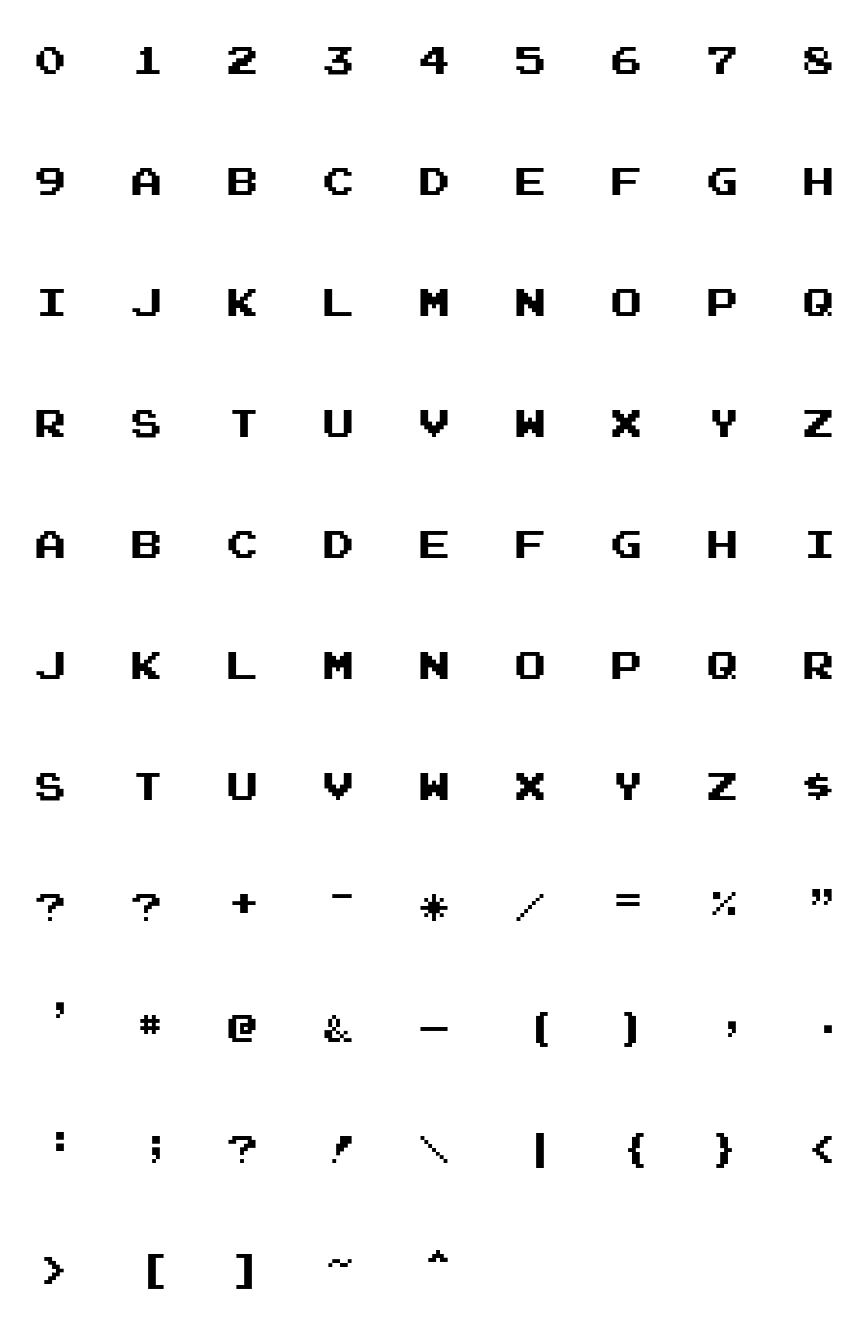
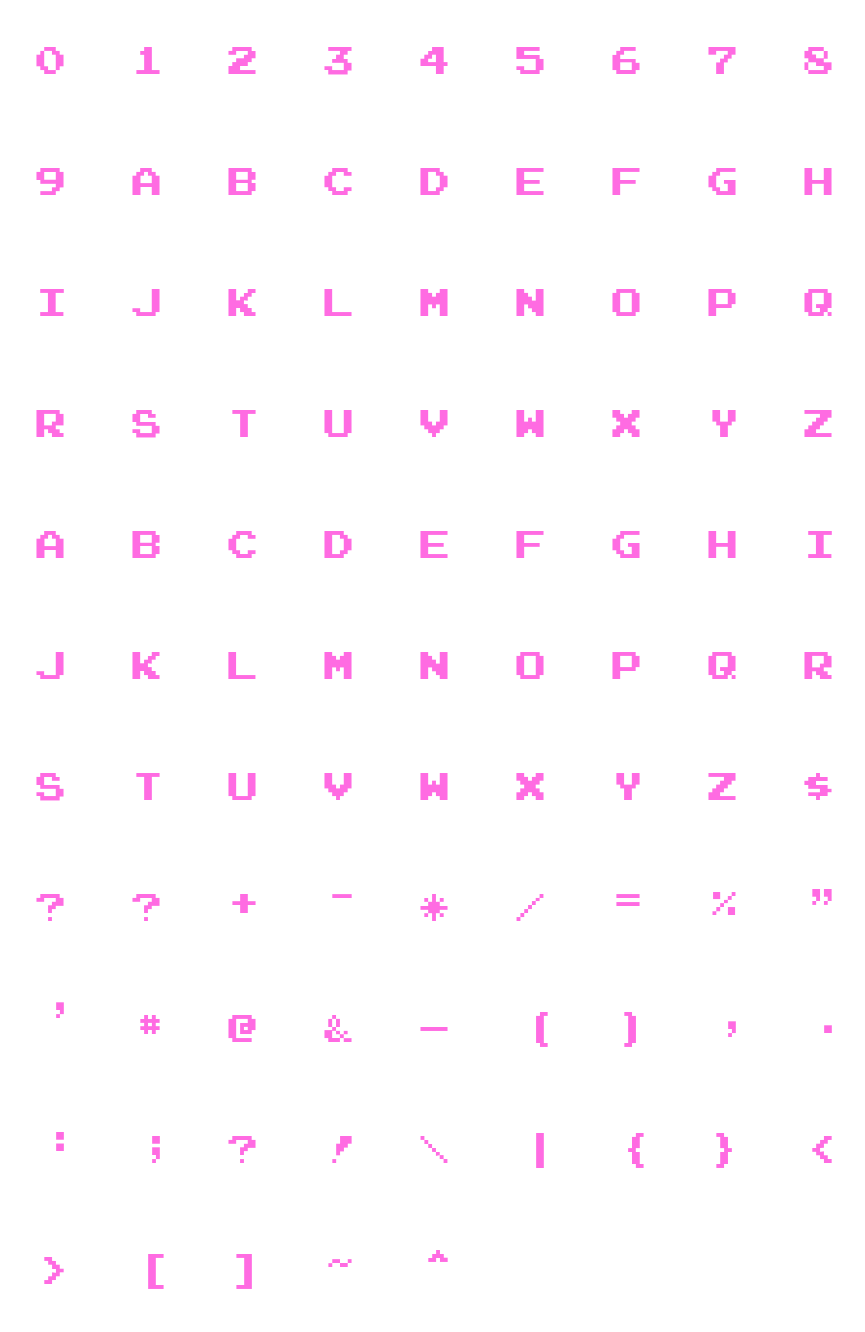
made text rendering transparent

diff --git a/Menu.cpp b/Menu.cpp
@@ -51,6 +51,10 @@ void draw_char(double x, double y, char c) {
     if (id != -1) {
         double charx = (id % 9)*texw;
         double chary = (id / 9)*texh;
+
+        glEnable(GL_BLEND);
+        glBlendFunc(GL_SRC_ALPHA, GL_ONE_MINUS_SRC_ALPHA);
+
         glEnable(GL_TEXTURE_2D);
         glColor3f(1.0f, 1.0f, 1.0f);
         glBegin(GL_QUADS);
@@ -64,6 +68,7 @@ void draw_char(double x, double y, char c) {
         glVertex2f(x, y);
         glEnd();
         glDisable(GL_TEXTURE_2D);
+        glDisable(GL_BLEND);
     }
 }
 void draw_text(double x, double y, char* arr) {
@@ -73,23 +78,64 @@ void draw_text(double x, double y, char* arr) {
         i++;
     }
 }
+bool bbox(double x, double y, double x1, double y1, double w, double h) {
+    return ((x >= x1 && x <= x1 + w) && (y >= y1 && y <= y1 + h));
+}
 int Menu::step(Sint32 mouseX, Sint32 mouseY, bool clicked){//returns mode if changed, 0 if no change
-    if (clicked) {
-        if (mouseY < 300)
-            return M_SINGLEPLAYER;
-        else if (mouseY > 450)
-            return M_SERVER;
-        else
+    switch (substate) {
+        case s_main:
+            if (clicked) {
+                if (bbox(mouseX, mouseY, 100, 100, w * 13, h)) {
+                    return M_SINGLEPLAYER;
+                }
+                if (bbox(mouseX, mouseY, 100, 300, w * 11, h)) {
+                    substate = s_clientIP;
+                }
+                if (bbox(mouseX, mouseY, 100, 500, w * 11, h)) {
+                    return M_SERVER;
+                }
+            }
+            break;
+        case s_clientIP:
+            //if (tmpip)
             return M_CLIENT;
     }
     return 0;
 }
-void Menu::draw(Sint32 mouseX, Sint32 mouseY) {
-    draw_text(100, 100, "Single Player");
-    draw_text(100, 300, "Client Game");
-    draw_text(100, 500, "Server Game");
+void draw_round_rect(double x, double y, double w, double h, Sint32 mouseX, Sint32 mouseY) {
+    double r = h / 2.;
+    glBegin(GL_TRIANGLE_FAN);
+    if (bbox(mouseX, mouseY, x, y, w, h)) {
+        glColor3f(0.4f, 0.4f, 0.4f);
+    } else {
+        glColor3f(0.0f, 0.0f, 0.0f);
+    }
+    glVertex2f(x + w/2, y + h/2);
+    if (bbox(mouseX, mouseY, x, y, w, h)) {
+        glColor3f(0.8f, 0.8f, 0.8f);
+    }
+    else {
+        glColor3f(0.6f, 0.6f, 0.6f);
+    }
+    glVertex2f(x+r, y);
+    for (int i = 0; i <= 18; i++) {
+        glVertex2f(x + w - r-xdir(i * 10, r), y + h/2 - ydir(i * 10, r));
+    }
+    for (int i = 18; i <= 36; i++) {
+        glVertex2f(x + r - xdir(i * 10, r), y + h / 2 - ydir(i * 10, r));
+    }
+    glEnd();
+    glDisable(GL_TEXTURE_2D);
 }
-
-void draw_round_rect(double x, double y, double w, double h) {
-
+void Menu::draw(Sint32 mouseX, Sint32 mouseY) {
+    switch (substate) {
+        case s_main:
+            draw_round_rect(100, 100, w * 13, h, mouseX, mouseY);
+            draw_text(100, 100, "Single Player");
+            draw_round_rect(100, 300, w * 11, h, mouseX, mouseY);
+            draw_text(100, 300, "Client Game");
+            draw_round_rect(100, 500, w * 11, h, mouseX, mouseY);
+            draw_text(100, 500, "Server Game");
+            break;
+    }
 }

diff --git a/Menu.h b/Menu.h
@@ -5,6 +5,8 @@
 #define M_CLIENT 2
 #define M_SERVER 3
 
+#define s_main 1
+#define s_clientIP 2
 class Menu
 {
 public:
@@ -13,5 +15,7 @@ public:
     bool init();//load all the files into surfaces into openGL textures
     Menu();
     ~Menu();
+    int substate = s_main;
+    Uint64 tmpip;
 };
 
